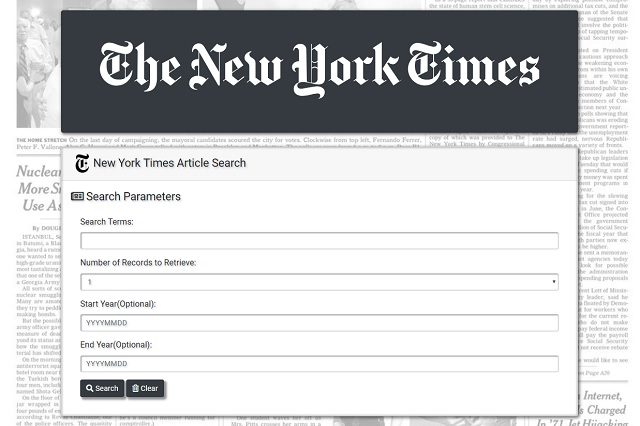
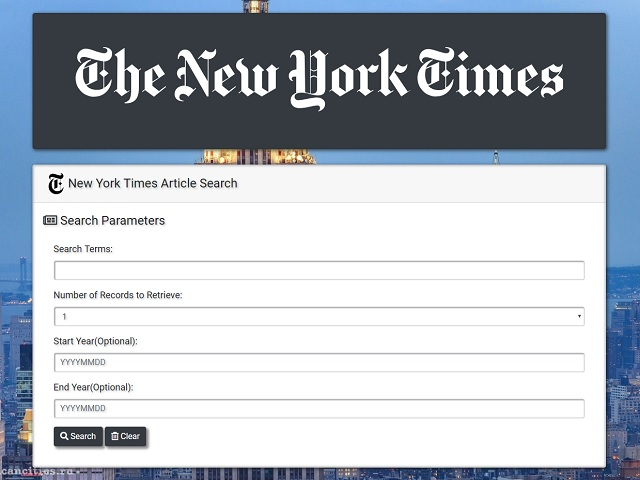
graphics update

diff --git a/assets/css/NYT.css b/assets/css/NYT.css
@@ -23,12 +23,12 @@
 
 .btn:hover {
     color: rgb(234, 236, 122);
-    box-shadow: 0rem .9375rem 1.25rem rgba(153, 163, 18, 0.4);
+    box-shadow: 0rem .8375rem 1.00rem rgba(153, 163, 18, 0.4);
 }
 
 .btn:active {
         color: rgb(114, 240, 190) !important;
-        box-shadow: 0rem .9375rem 1.25rem rgba(18, 163, 105, 0.4) !important; 
+        box-shadow: 0rem .8375rem 1.00rem rgba(18, 163, 105, 0.4) !important; 
         transform: translateY(.125rem);
 }
 
@@ -57,7 +57,7 @@ li:hover{
 }
 
 body{
-    background-image: url("../images/nytfrontpage3.jpg");
+    background-image: url("../images/nytfrontpage4.jpg");
     background-size: cover;
     background-position: center;
     background-repeat: no-repeat;

diff --git a/nyt.md b/nyt.md
@@ -26,6 +26,13 @@ Search results can be cleared by clicking the clear button.
 ---
 ### Technologies used:
 
+* Html
+* CSS
+* Javascript
+* JQuery
+* Ajax
+* New York Times api
+
 ### URL:
 https://jefferycarmichael.github.io/NYTimes-Search/
 
